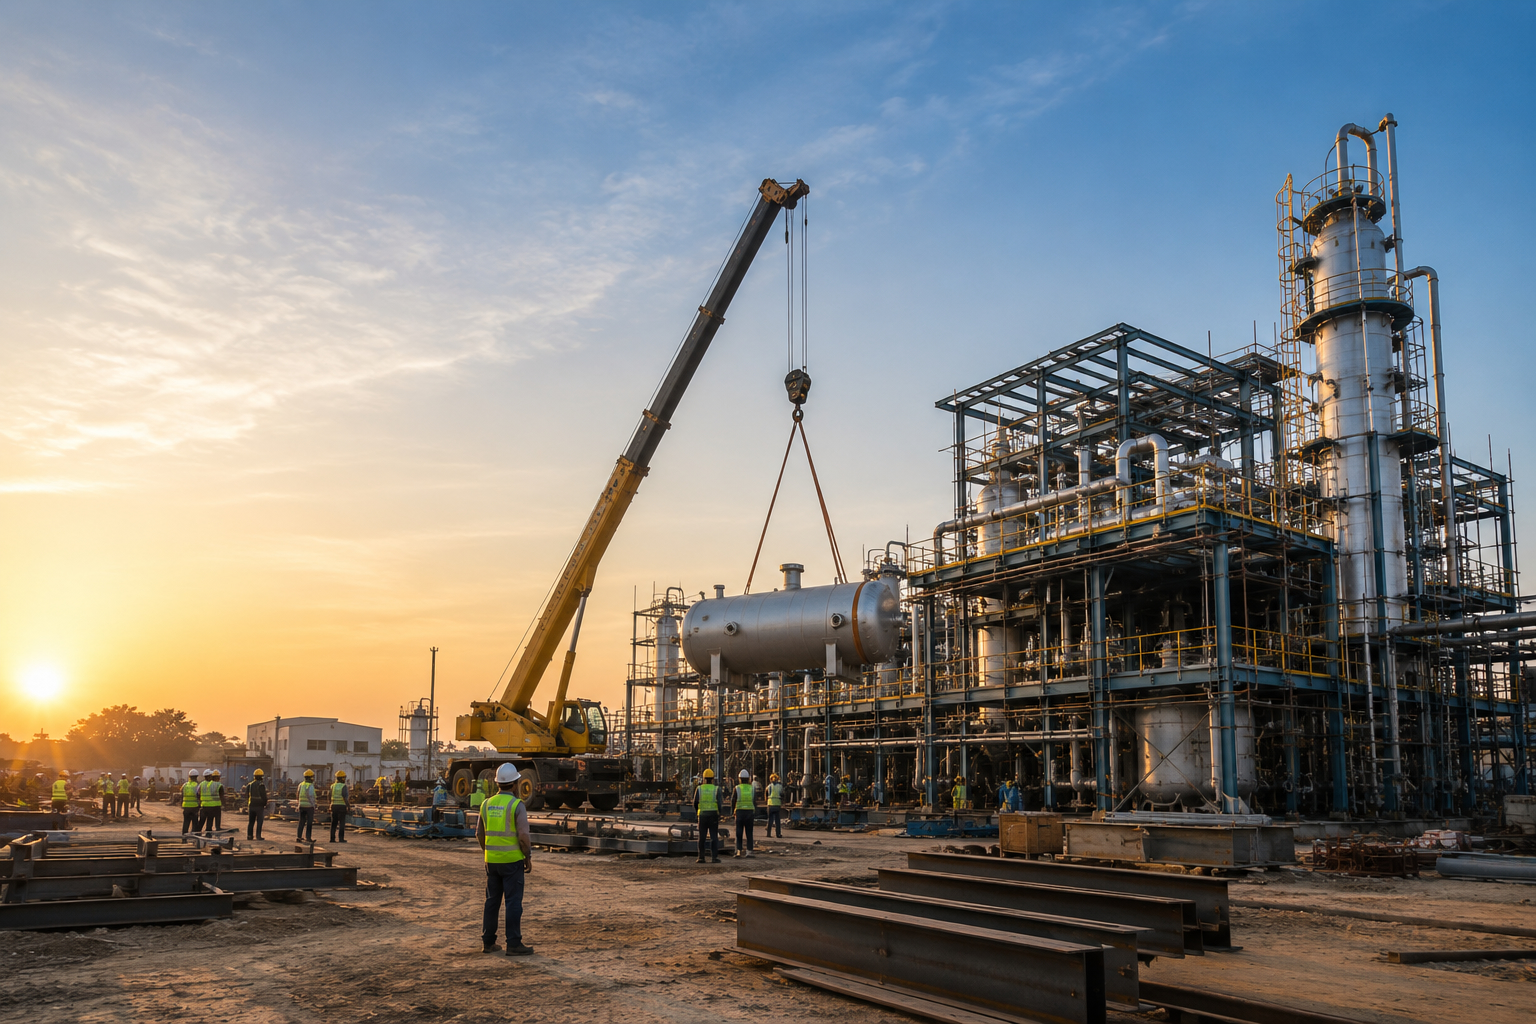
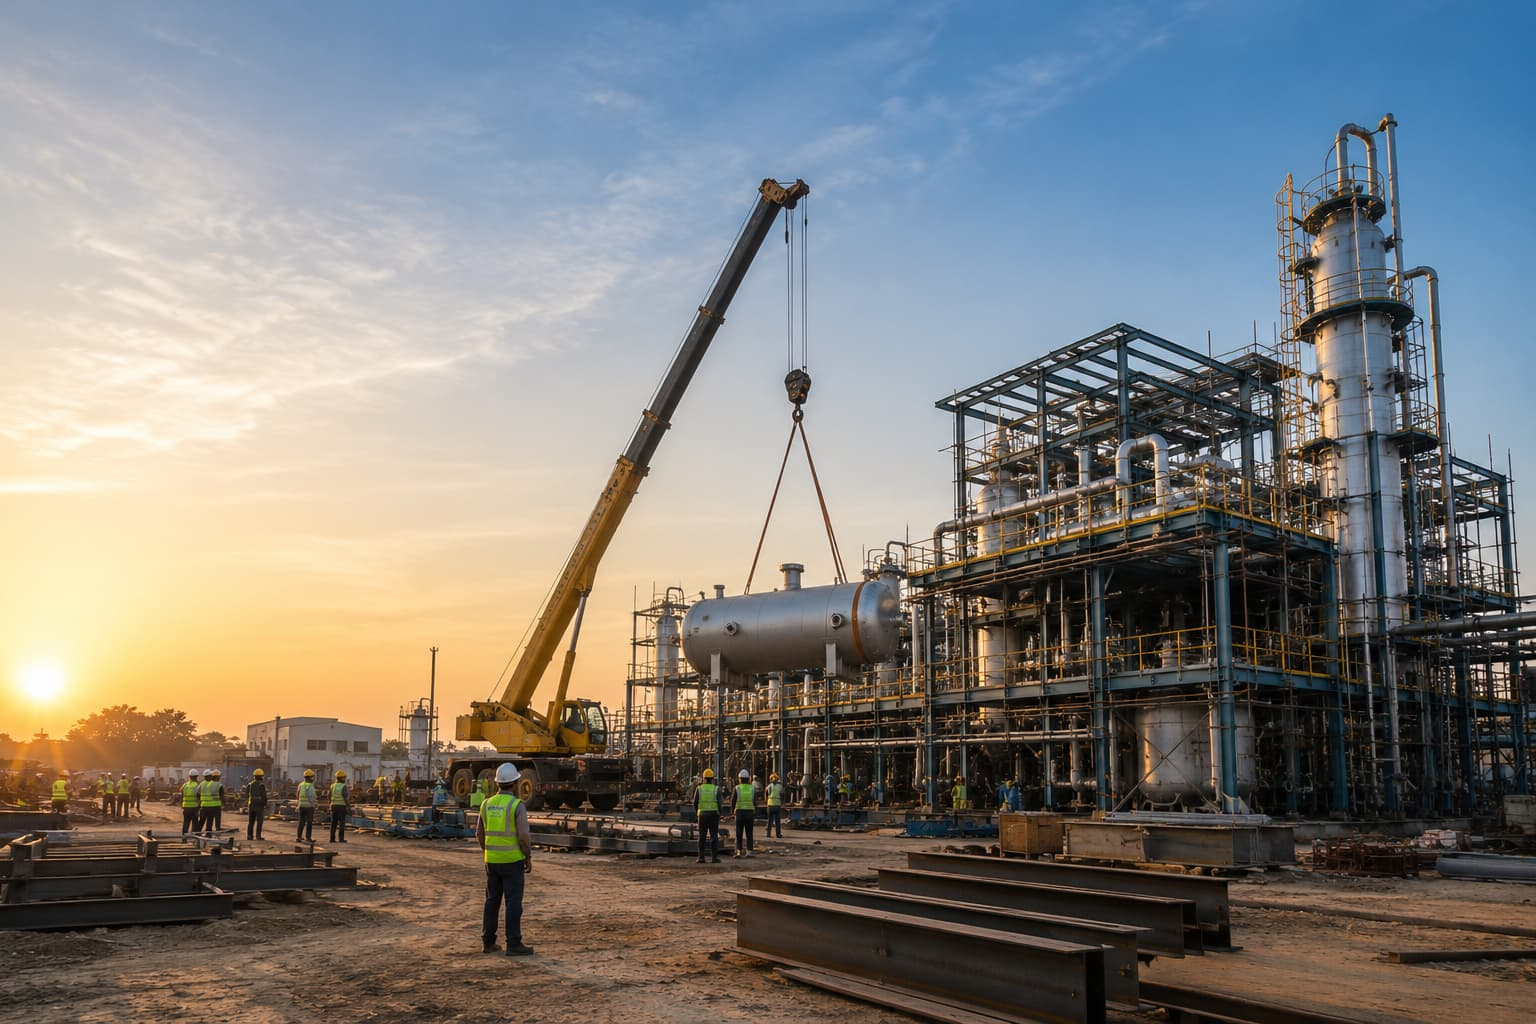
homephoto

Changed region(s): [[0.8125, 0.125, 0.9062, 0.25], [0.8125, 0.3125, 0.8438, 0.4062]]

diff --git a/src/app/pages/Home.tsx b/src/app/pages/Home.tsx
@@ -68,7 +68,7 @@ export function Home() {
       {/* Hero Section */}
       <section className="relative h-[875px] md:min-h-screen overflow-hidden">
         <div className="absolute h-full md:h-[70vh] left-0 top-0 w-full overflow-hidden">
-          <img src={homePageImg} alt="Industrial crane erection at golden hour" loading="lazy" className="absolute inset-0 w-full h-full object-cover" style={{ objectPosition: 'center 75%' }} />
+        <img src={homePageImg} alt="Industrial crane erection at golden hour" fetchpriority="high" className="absolute inset-0 w-full h-full object-cover" style={{ objectPosition: 'center 75%' }} />
           <div className="absolute inset-0 bg-gradient-to-t from-[rgba(12,13,16,0.4)] via-[rgba(5,6,7,0.3)] via-25% via-[rgba(2,2,2,0.2)] via-50% via-[rgba(0,0,0,0.1)] via-75% to-transparent"></div>
         </div>
 